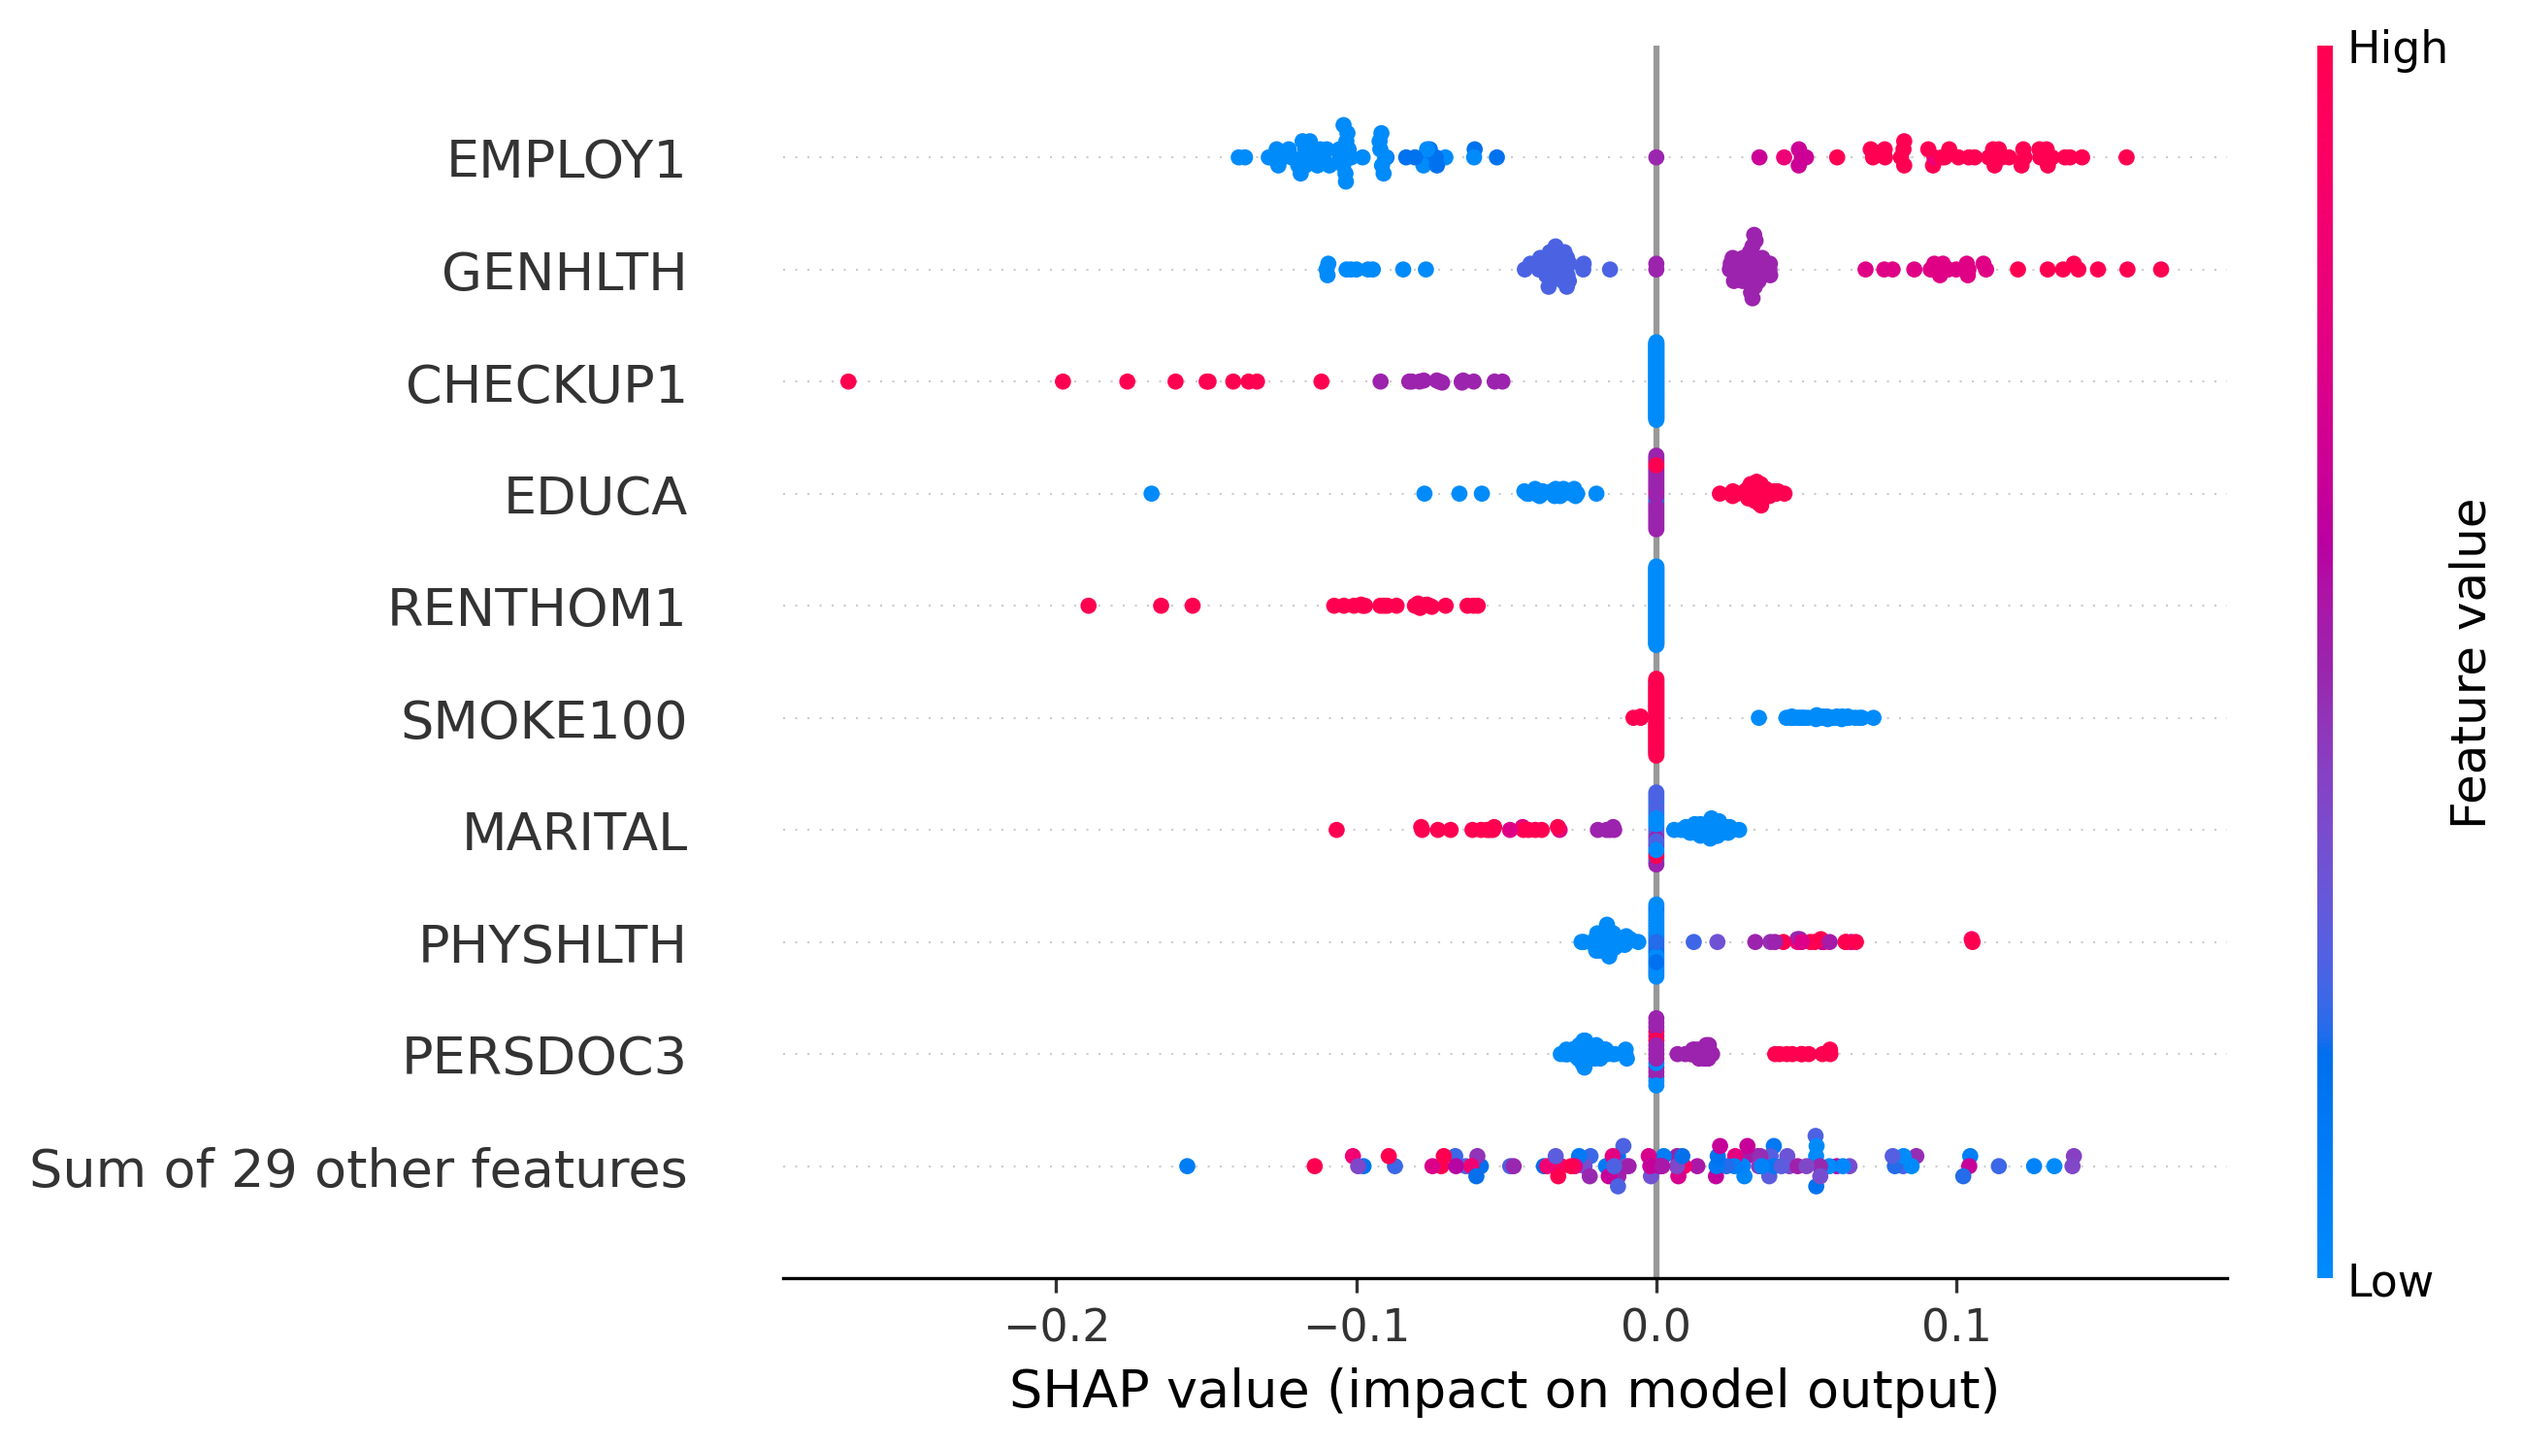
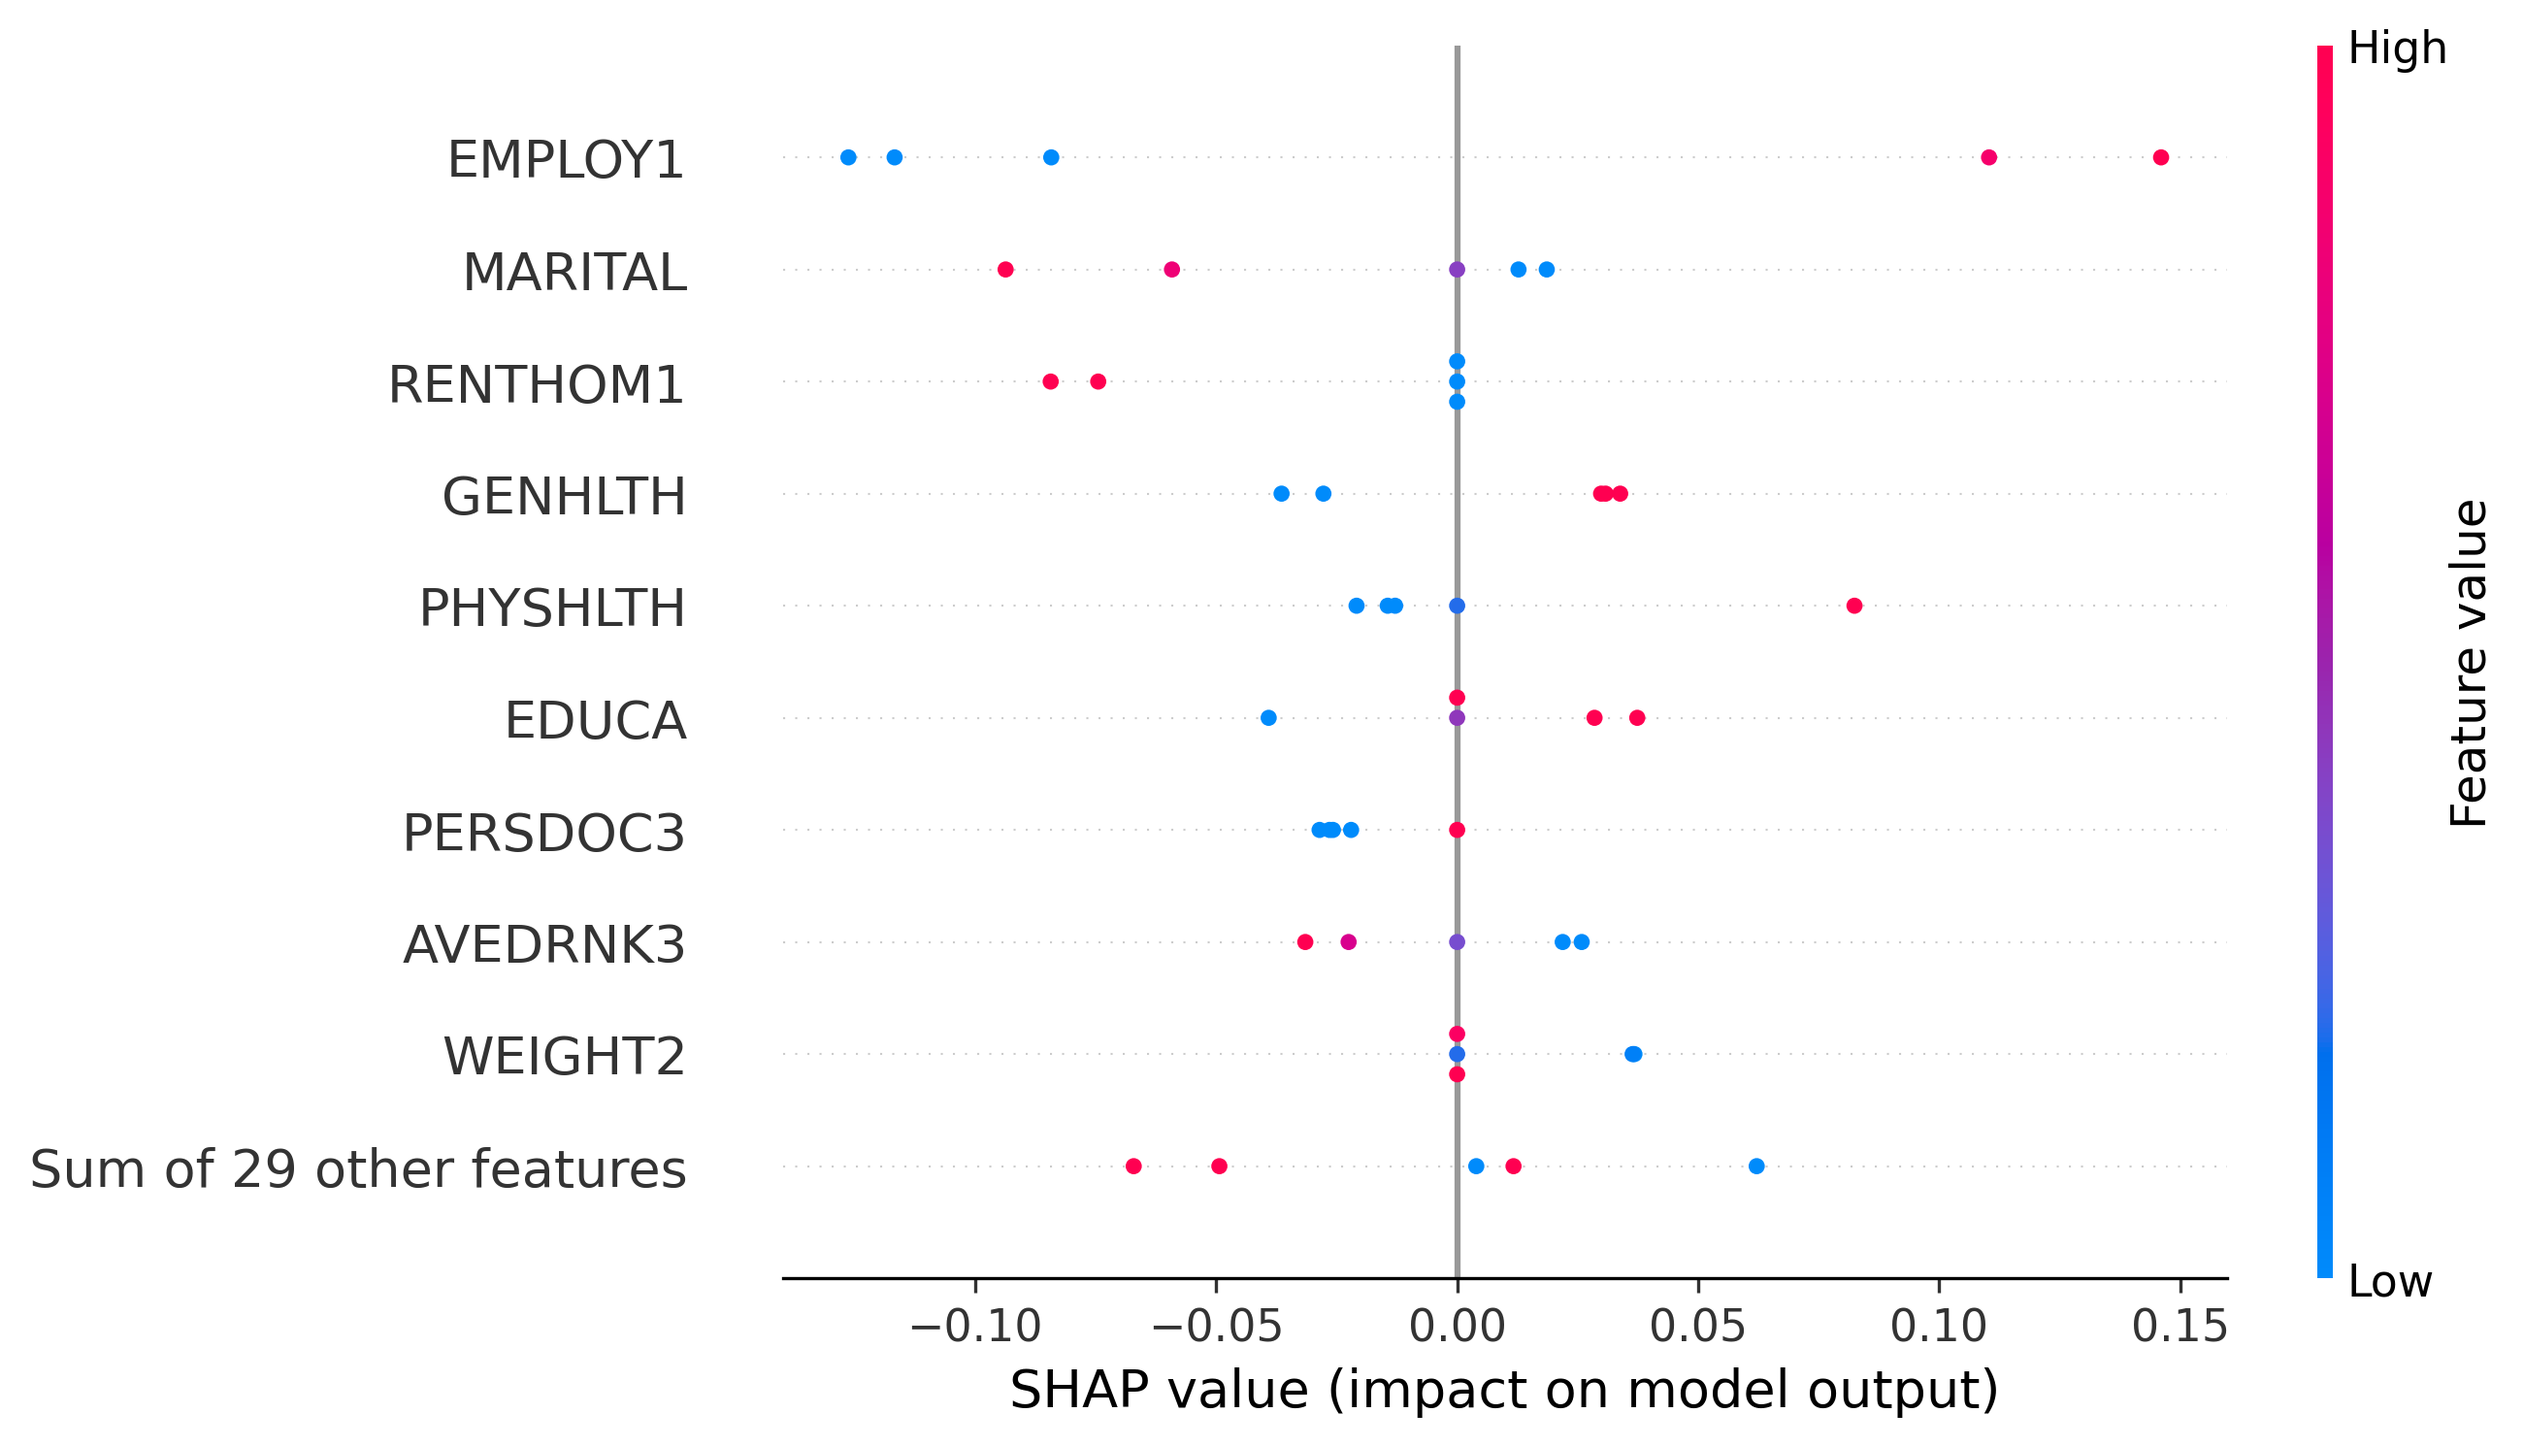
add device handling

diff --git a/explainer/global_explainer.py b/explainer/global_explainer.py
@@ -15,6 +15,9 @@ class GlobalExplainer:
         f = open(os.path.join("data", "interim", "target_columns.txt"), "r")
         self.target_columns = f.read().split()
 
+        self.device = torch.device("cuda" if torch.cuda.is_available() else "cpu")
+        print(f"Using device: {self.device}")
+
 
     def load_data(self):
         df = pd.read_csv(os.path.join("data", "interim", "ml_data_final.csv"))
@@ -22,7 +25,7 @@ class GlobalExplainer:
 
         data = df.to_numpy()[:, :38]
 
-        sample_size = 100
+        sample_size = 5
         idx = np.random.choice(len(data), sample_size, replace=False)
         self.data_sample = data[idx]
 
@@ -30,17 +33,20 @@ class GlobalExplainer:
 
 
     def load_model(self, disease):
-        self.model = ResNet(self.data_sample.shape[1], 2)
-        self.model.load_state_dict(torch.load(os.path.join("data", "final", "ml_models", f"final_{disease}.pth")))
+        self.model = ResNet(self.data_sample.shape[1], 2).to(self.device)
+        self.model.load_state_dict(torch.load(
+            os.path.join("data", "final", "ml_models", f"final_{disease}.pth"),
+            map_location=self.device
+        ))
         self.model.eval()
 
 
     def model_wrapper(self, x):
-        x_tensor = torch.tensor(x, dtype=torch.float32)
+        x_tensor = torch.tensor(x, dtype=torch.float32, device=self.device)
         with torch.no_grad():
             logits = self.model(x_tensor)
             probs = F.softmax(logits, dim=1)
-            return probs[:, 1].numpy()
+            return probs[:, 1].detach().cpu().numpy()
         
 
     def explainer(self, disease):
@@ -67,4 +73,4 @@ class GlobalExplainer:
 
 if __name__ == "__main__":
     explainer = GlobalExplainer()
-    explainer.explainer_all()
+    explainer.explainer("CHCOCNC1")
